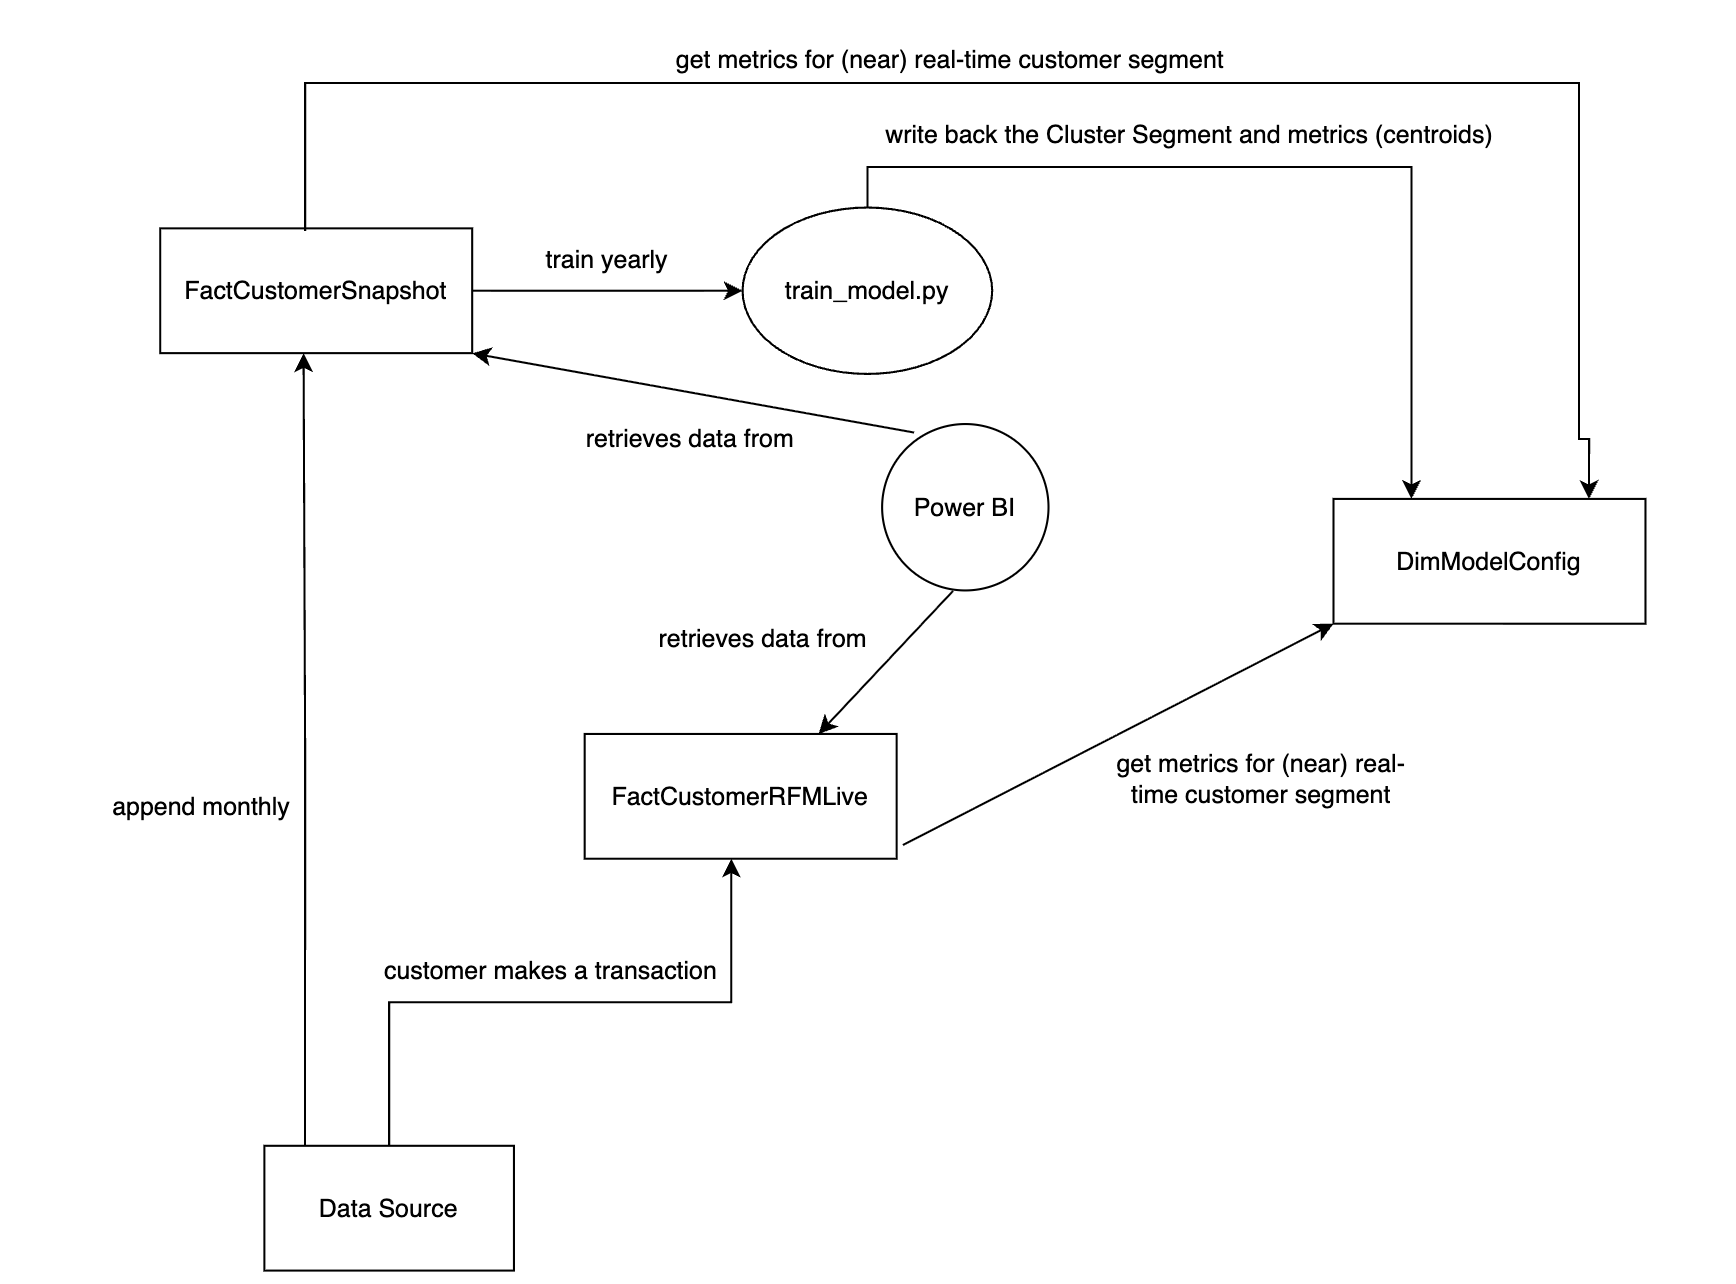
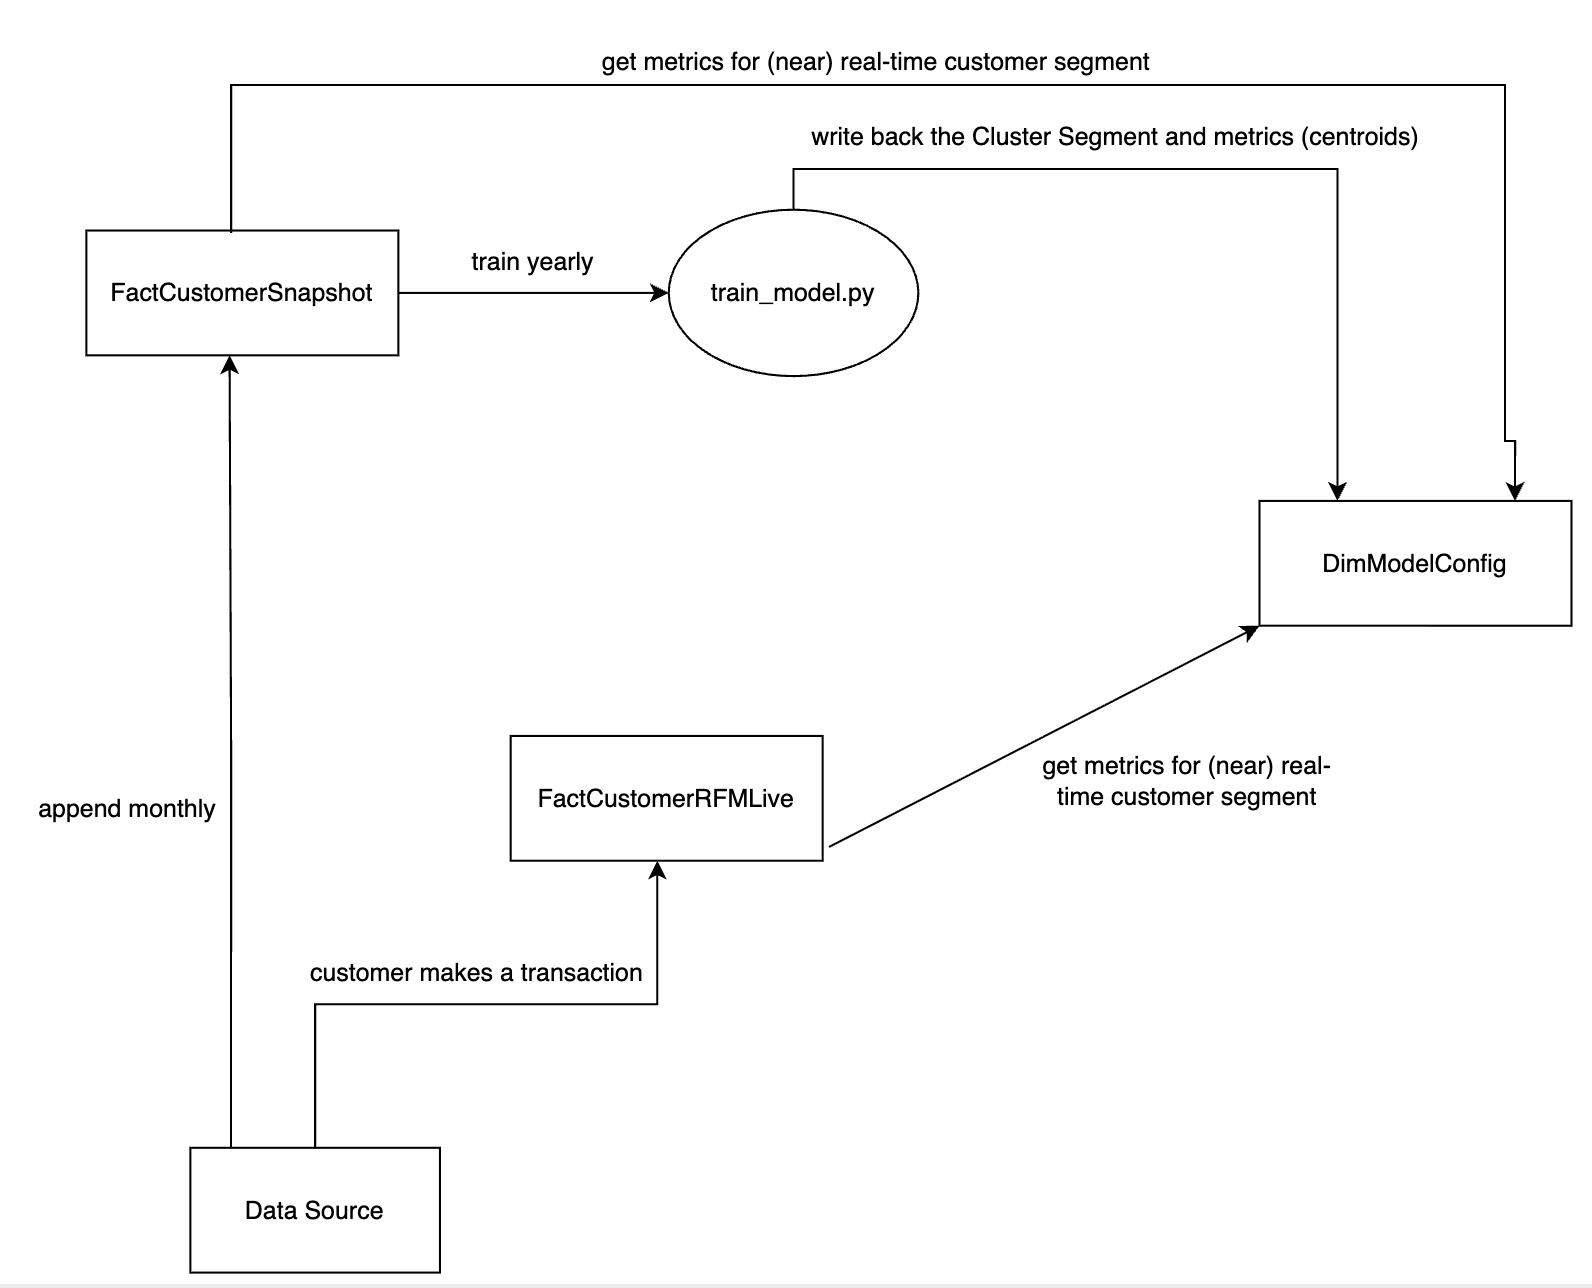
update section3

diff --git a/document/sections/section4.tex b/document/sections/section4.tex
@@ -14,16 +14,18 @@ At the bottom of the figure, two different paths can be observed. The first proc
 
 The second process happens at the end of each month where customers' RFM values at that specific date(snapshot) are captured and inserted into the \textbf{FactCustomerSnapshot}. Similar to the \textbf{FactCustomerRFMLive}, we get the cluster segment from the DimModelConfig. What\'s more, the data in this fact table will be fetched annually by our data scientists python codebase to retrain our K-means model. Following that, These new metrics are written back to the DimModelConfig and act as the active model version for the next year's customer segment.
 
-Finally, the BI developer will take both information from \textbf{FactCustomerSnapshot} and \textbf{FactCustomerRFMLive} to construct meaningful charts.
+Finally, the BI developer will take information from the data warehouse to construct meaningful charts.
 
 \section{ETL Pipeline \& Data Flow}
 
+\subsection{Customer Data Flow}
 
 
-
-\subsection{DimCustomerProfiling}
-
-\subsection{DimClusterProfiling}
+\subsection{Stage Customer Profiles}
 
 
+\subsection{RFM Live Data Flow}
+
+
+\subsection{RFM Snapshot}
 

diff --git a/document/sections/section3.tex b/document/sections/section3.tex
@@ -2,9 +2,9 @@
 
 We propose our data warehouse design as below:
 
-\begin{figure}[htbp]
+\begin{figure}[p]
     \centering % Căn giữa hình ảnh
-    \includegraphics[width=0.8\textwidth]{DWHdesign.png}
+    \includegraphics[width=\textwidth]{DWHdesign.png}
     \caption{Data Warehouse Design.}
     \label{fig:DWH_design} % Nhãn để dùng cho lệnh tham chiếu \ref{}
 \end{figure}
